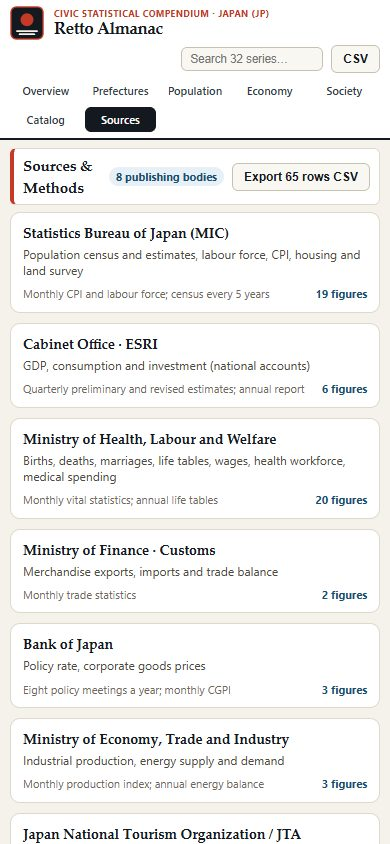
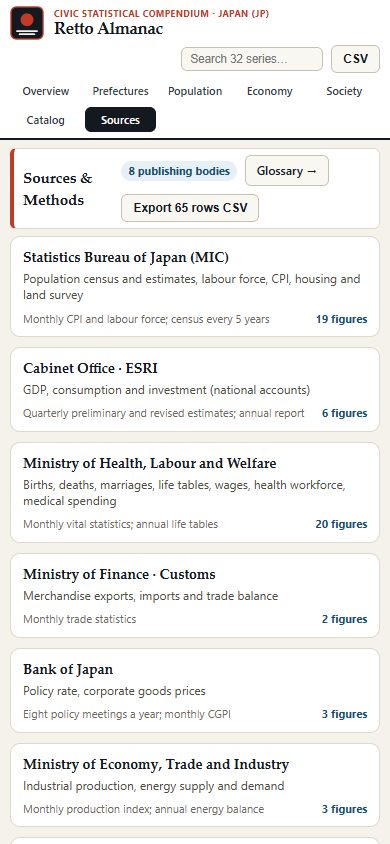
Glossary page, Japan at a glance strip, data audit tool, rewritten hand-in and README

diff --git a/app/glossary-view.js b/app/glossary-view.js
@@ -1,0 +1,83 @@
+// Glossary page (#/glossary): plain-language definitions of the terms the almanac uses, grouped
+// by topic, each pointing to the page where the term appears, with a search box and topic tabs.
+
+import { escapeHtml } from "./export-utils.js";
+
+/** Terms a reader meets on the site, with a definition written for non-specialists. */
+export const GLOSSARY_TERMS = [
+  { term: "Nominal GDP", topic: "Economy", page: "#/", definition: "The market value of everything produced in Japan in a year, at that year's prices. It rises with both more output and higher prices." },
+  { term: "Real GDP growth", topic: "Economy", page: "#/", definition: "GDP growth with price changes taken out (chain-linked to 2015 prices), so it shows whether the economy actually produced more." },
+  { term: "Calendar year (CY) vs fiscal year (FY)", topic: "Economy", page: "#/catalog", definition: "CY runs January to December. Japan's fiscal year runs April to March, so FY2024 ends on 31 March 2025." },
+  { term: "Trade balance", topic: "Economy", page: "#/economy", definition: "Merchandise exports minus imports on a customs basis. A negative figure (a deficit) means Japan bought more goods abroad than it sold." },
+  { term: "Current account", topic: "Economy", page: "#/catalog", definition: "The trade balance plus income from overseas investments and services. Japan runs a large surplus thanks to investment income." },
+  { term: "Policy rate", topic: "Economy", page: "#/", definition: "The short-term interest rate the Bank of Japan targets for overnight lending between banks; it ended negative rates in March 2024." },
+  { term: "CPI (2020 = 100)", topic: "Prices", page: "#/economy", definition: "The consumer price index: the cost of a fixed basket of goods and services, set to 100 in 2020. 108.5 means prices are 8.5% above 2020." },
+  { term: "Core CPI", topic: "Prices", page: "#/", definition: "CPI excluding fresh food, whose prices swing with the weather. It is Japan's standard measure of underlying inflation." },
+  { term: "Percentage points (pp)", topic: "Prices", page: "#/economy", definition: "The difference between two percentages. A rate moving from 2.5% to 2.6% has risen 0.1 pp, which is a 4% relative increase." },
+  { term: "Real wages", topic: "Prices", page: "#/economy", definition: "Wages adjusted for consumer prices. When prices rise faster than pay, real wages fall even if the yen amount grows." },
+  { term: "Total fertility rate (TFR)", topic: "Population", page: "#/demographics", definition: "The average number of children a woman would have over her life at this year's birth rates. About 2.07 keeps a population stable." },
+  { term: "Natural change", topic: "Population", page: "#/society", definition: "Births minus deaths in a year, before migration. Japan's has been negative every year since 2007." },
+  { term: "Population pyramid", topic: "Population", page: "#/demographics", definition: "Bars of men (left) and women (right) by five-year age group. A wide top and narrow base show an ageing, shrinking population." },
+  { term: "Old-age dependency ratio", topic: "Population", page: "#/demographics", definition: "People aged 65 and over per 100 people aged 15 to 64: a rough count of retirees per worker-age resident." },
+  { term: "Life expectancy at birth", topic: "Population", page: "#/society", definition: "How many years a baby born this year would live if today's death rates at each age stayed the same for its whole life." },
+  { term: "Census vs estimate", topic: "Population", page: "#/sources", definition: "The census counts every resident every five years; this almanac uses the 2020 census. Estimates update it monthly from births, deaths and migration." },
+  { term: "Unemployment rate", topic: "Labour", page: "#/", definition: "Jobless people actively looking for work as a share of the labour force, seasonally adjusted. People not seeking work are not counted." },
+  { term: "Job-openings-to-applicants ratio", topic: "Labour", page: "#/regions", definition: "Job openings at public employment offices per jobseeker. Above 1.0 means more vacancies than applicants." },
+  { term: "Prefecture and JIS code", topic: "Regions", page: "#/regions", definition: "Japan has 47 prefectures, numbered 01 (Hokkaido) to 47 (Okinawa) by the JIS X 0401 standard, roughly north to south." },
+  { term: "GDP per capita (prefectural)", topic: "Regions", page: "#/regions", definition: "A prefecture's output divided by its residents. Tokyo is high partly because commuters from nearby prefectures work there." },
+  { term: "Preliminary (prelim.) / provisional (Prov.)", topic: "Method", page: "#/sources", definition: "Early figures an agency publishes before its final count; they are usually revised slightly months later." },
+  { term: "Seasonally adjusted", topic: "Method", page: "#/catalog", definition: "Monthly figures with the usual calendar pattern (holidays, harvests, bonuses) removed, so one month can be compared with the next." },
+];
+
+const TOPICS = ["All", "Economy", "Prices", "Population", "Labour", "Regions", "Method"];
+
+const PAGE_NAMES = { "#/": "Overview", "#/regions": "Prefectures", "#/demographics": "Population", "#/economy": "Economy", "#/society": "Society", "#/catalog": "Catalog", "#/sources": "Sources" };
+
+/** Terms that match the topic tab and the search text. */
+function matchingTerms(topic, query) {
+  const needle = query.trim().toLowerCase();
+  return GLOSSARY_TERMS.filter((entry) => (topic === "All" || entry.topic === topic) && (!needle || `${entry.term} ${entry.definition}`.toLowerCase().includes(needle)));
+}
+
+/** Render the glossary page for the saved state. */
+export function renderGlossaryView(state) {
+  const topic = TOPICS.includes(state.glossaryTopic) ? state.glossaryTopic : "All";
+  const query = state.glossaryQuery || "";
+  const terms = matchingTerms(topic, query);
+  const tabs = TOPICS.map((t) => `<button type="button" class="seg-btn${t === topic ? " is-active" : ""}" data-glossary-topic="${t}">${t}</button>`).join("");
+  const cards = terms
+    .map(
+      (entry) => `
+      <article class="term-card">
+        <div class="term-head"><h3>${escapeHtml(entry.term)}</h3><span class="badge badge-neutral">${escapeHtml(entry.topic)}</span></div>
+        <p>${escapeHtml(entry.definition)}</p>
+        <a class="term-link" href="${entry.page}">Seen on ${escapeHtml(PAGE_NAMES[entry.page] || "Overview")} →</a>
+      </article>`,
+    )
+    .join("");
+  return `
+    <section class="context-banner">
+      <div class="context-headline">
+        <h1>How to read these statistics</h1>
+        <p class="context-sub">${GLOSSARY_TERMS.length} terms used across the almanac, explained in plain language, each linked to where it appears.</p>
+      </div>
+      <div class="context-meta"><a class="btn btn-subtle" href="#/sources">Where the numbers come from →</a></div>
+    </section>
+    <section class="toolbar-strip">
+      <div class="seg-group" role="tablist" aria-label="Glossary topics">${tabs}</div>
+      <div>
+        <label class="sr-only" for="glossary-query">Search terms</label>
+        <input id="glossary-query" class="field-input glossary-search" type="search" placeholder="Search a term, e.g. CPI" value="${escapeHtml(query)}" />
+      </div>
+    </section>
+    <section class="term-grid" aria-label="Glossary terms">${cards || `<p class="panel">No term matches “${escapeHtml(query)}”.</p>`}</section>`;
+}
+
+/** Wire the topic tabs and the search box. */
+export function bindGlossaryInteractions(root, state, persistState) {
+  root.querySelectorAll("[data-glossary-topic]").forEach((tab) => {
+    tab.addEventListener("click", () => persistState({ glossaryTopic: tab.getAttribute("data-glossary-topic") }));
+  });
+  const input = root.querySelector("#glossary-query");
+  input?.addEventListener("change", () => persistState({ glossaryQuery: input.value }));
+}

diff --git a/main.ts b/main.ts
@@ -1,57 +1,52 @@
-// Retto Almanac — Entrypoint for make.fun best-national-statistics-site-20261126-0539.
-// Stages static site assets (app/) and browser screenshots (screenshots/) into the grading output root,
-// then emits a deterministic dossier.json via the vendored make.fun frontend helper.
+// Retto Almanac hand-in program for make.fun's national statistics site bounty (Node 22, standard
+// library only). It copies the static site (app/) and its screenshots (screenshots/) into the
+// grader's output folder and writes dossier.json with the kit's unchanged frontend library.
+// Locally, MAKEFUN_OUTPUT_DIR stands in for /output:  MAKEFUN_OUTPUT_DIR=out node main.ts
 
-import { cpSync, existsSync, mkdirSync, readdirSync, statSync, writeFileSync } from "node:fs";
+import { copyFileSync, cpSync, existsSync, mkdirSync, readdirSync, statSync, writeFileSync } from "node:fs";
 import { dirname, join, resolve } from "node:path";
 import { fileURLToPath } from "node:url";
 import { buildDossier } from "./vendor/makefun-frontend.ts";
 
-const repoDir = dirname(fileURLToPath(import.meta.url));
-const targetOutputDir = resolve(process.env.MAKEFUN_OUTPUT_DIR ?? "/output");
-const DOSSIER_MAX_BYTES = 1572864;
+const REPOSITORY = dirname(fileURLToPath(import.meta.url));
+const OUTPUT = resolve(process.env.MAKEFUN_OUTPUT_DIR ?? "/output");
 
-const GATE_LIMITS = {
+/** The scorer's caps, so a bad hand-in fails here with a clear message instead of at the gate. */
+const CAPS = {
   text_max_bytes: 163840,
   screenshots: { max: 4, max_bytes: 262144 },
   app_max_files: 993,
   app_max_bytes: 16777216,
 } as const;
+const DOSSIER_CAP_BYTES = 1.5 * 1024 * 1024;
+const SCREENSHOT_NAME = /^[A-Za-z0-9][A-Za-z0-9._-]{0,127}$/;
 
-function stageNationalStatisticsSite(sourceRoot: string, destinationRoot: string): void {
-  const sourceApp = join(sourceRoot, "app");
-  const sourceShots = join(sourceRoot, "screenshots");
-
-  if (!existsSync(join(sourceApp, "index.html"))) {
-    throw new Error("Retto Almanac staging failed: app/index.html is missing.");
-  }
-
-  mkdirSync(destinationRoot, { recursive: true });
-  cpSync(sourceApp, join(destinationRoot, "app"), { recursive: true });
-
-  const destinationShots = join(destinationRoot, "screenshots");
-  mkdirSync(destinationShots, { recursive: true });
-  if (existsSync(sourceShots)) {
-    const entries = readdirSync(sourceShots)
-      .filter((name) => !name.startsWith("."))
-      .sort();
-    if (entries.length < 3 || entries.length > GATE_LIMITS.screenshots.max) {
-      throw new Error(`Expected 3 to 4 screenshots, found ${entries.length}.`);
-    }
-    for (const file of entries) {
-      const srcFile = join(sourceShots, file);
-      const size = statSync(srcFile).size;
-      if (size <= 0 || size > GATE_LIMITS.screenshots.max_bytes) {
-        throw new Error(`Screenshot ${file} (${size} bytes) is outside the 256 KiB gate limit.`);
-      }
-      cpSync(srcFile, join(destinationShots, file));
-    }
-  }
+/** Copy app/ whole; the site must have its index page. */
+function copySite(): void {
+  const site = join(REPOSITORY, "app");
+  if (!existsSync(join(site, "index.html"))) throw new Error("app/index.html is missing: nothing to hand in.");
+  cpSync(site, join(OUTPUT, "app"), { recursive: true });
 }
 
-stageNationalStatisticsSite(repoDir, targetOutputDir);
-const dossierBytes = buildDossier(targetOutputDir, GATE_LIMITS);
-if (dossierBytes.byteLength > DOSSIER_MAX_BYTES) {
-  throw new Error(`Dossier (${dossierBytes.byteLength} bytes) exceeds 1.5 MiB limit.`);
+/** Copy 3 or 4 screenshots in name order (the first is the cover), checking name and size. */
+function copyScreenshots(): string[] {
+  const folder = join(REPOSITORY, "screenshots");
+  const names = existsSync(folder) ? readdirSync(folder).filter((name) => !name.startsWith(".")).sort() : [];
+  if (names.length < 3 || names.length > CAPS.screenshots.max) throw new Error(`screenshots/ holds ${names.length} images; the gate wants 3 or 4.`);
+  const target = join(OUTPUT, "screenshots");
+  mkdirSync(target, { recursive: true });
+  for (const name of names) {
+    const bytes = statSync(join(folder, name)).size;
+    if (!SCREENSHOT_NAME.test(name)) throw new Error(`Screenshot name ${name} has characters the gate refuses.`);
+    if (bytes === 0 || bytes > CAPS.screenshots.max_bytes) throw new Error(`Screenshot ${name} is ${bytes} bytes; the cap is 256 KiB.`);
+    copyFileSync(join(folder, name), join(target, name));
+  }
+  return names;
 }
-writeFileSync(join(targetOutputDir, "dossier.json"), dossierBytes);
+
+mkdirSync(OUTPUT, { recursive: true });
+copySite();
+copyScreenshots();
+const dossier = buildDossier(OUTPUT, CAPS);
+if (dossier.byteLength > DOSSIER_CAP_BYTES) throw new Error(`dossier.json is ${dossier.byteLength} bytes; the cap is 1.5 MiB.`);
+writeFileSync(join(OUTPUT, "dossier.json"), dossier);

diff --git a/app/sections.css b/app/sections.css
@@ -47,12 +47,45 @@
 .finder-tools .field-input { min-width: 240px; }
 .finder-source { font-size: 12px; color: #4f4a42; }
 
+.glance-strip { display: flex; align-items: stretch; gap: 10px; margin: 0 0 11px; padding: 7px 10px; background: #141920; border-radius: var(--radius-md); color: #f6f3ec; }
+.glance-title { margin: 0; flex: 0 0 76px; align-self: center; font: 700 11px/1.3 var(--font-sans); letter-spacing: 0.1em; text-transform: uppercase; color: #e9a395; }
+.glance-row { flex: 1; display: grid; grid-template-columns: repeat(6, minmax(0, 1fr)); gap: 8px; }
+.glance-tile { display: flex; flex-direction: column; gap: 1px; text-decoration: none; color: inherit; padding: 2px 6px; border-left: 1px solid rgba(255, 255, 255, 0.14); }
+.glance-tile:hover { background: rgba(255, 255, 255, 0.07); }
+.glance-icon { display: none; }
+.glance-value { font: 700 19px/1.1 var(--font-serif); color: #ffffff; }
+.glance-label { font-size: 11.5px; line-height: 1.25; color: #d9d4c8; }
+.glance-period { font-size: 10px; color: #a7a195; }
+
+.term-grid { display: grid; grid-template-columns: repeat(3, minmax(0, 1fr)); gap: 10px; }
+.term-card { background: var(--bg-card); border: 1px solid var(--line-soft); border-radius: var(--radius-md); padding: 10px 12px; display: flex; flex-direction: column; gap: 6px; }
+.term-head { display: flex; justify-content: space-between; align-items: baseline; gap: 8px; }
+.term-head h3 { margin: 0; font: 700 15px var(--font-serif); color: #141920; }
+.term-card p { margin: 0; font-size: 12.8px; line-height: 1.45; color: #3b3832; flex: 1; }
+.term-link { font-size: 11.5px; font-weight: 600; color: var(--indigo); text-decoration: none; }
+.term-link:hover { text-decoration: underline; }
+.glossary-search { width: 230px; }
+
+@media (max-width: 1080px) {
+  .glance-row { grid-template-columns: repeat(3, minmax(0, 1fr)); }
+  .term-grid { grid-template-columns: repeat(2, minmax(0, 1fr)); }
+}
+
+@media (max-width: 640px) {
+  .glance-strip { flex-direction: column; }
+  .glance-title { flex-basis: auto; align-self: flex-start; }
+  .glance-row { grid-template-columns: repeat(2, minmax(0, 1fr)); }
+  .term-grid { grid-template-columns: 1fr; }
+  .glossary-search { width: 100%; }
+}
+
 @media (max-width: 1080px) {
   .fact-grid, .agency-grid { grid-template-columns: repeat(2, minmax(0, 1fr)); }
   .society-deck { grid-template-columns: 1fr; }
 }
 
 @media (max-width: 640px) {
+  .context-banner .context-meta { flex-wrap: wrap; flex-shrink: 1; }
   .fact-grid, .agency-grid { grid-template-columns: 1fr; }
   .fact-value { font-size: 22px; }
   .finder-tools { flex-wrap: wrap; width: 100%; }

diff --git a/app/glance-strip.js b/app/glance-strip.js
@@ -1,0 +1,26 @@
+// "Japan at a glance" strip for the Overview: six everyday figures about how people in Japan
+// live, drawn from the Society & Living data, each linking to its page with its year.
+
+/** The glance figures, in display order. Values repeat the sourced figures of society-data.js. */
+export const GLANCE_ITEMS = [
+  { icon: "♥", value: "87.1 / 81.1", label: "Life expectancy, women / men", period: "2023", href: "#/society" },
+  { icon: "◔", value: "29.3%", label: "Residents aged 65 and over", period: "Sep 2024", href: "#/society" },
+  { icon: "⌂", value: "38%", label: "Households of one person", period: "2020 Census", href: "#/society" },
+  { icon: "▣", value: "13.8%", label: "Homes standing vacant", period: "2023", href: "#/society" },
+  { icon: "✚", value: "−919k", label: "Natural decrease (births − deaths)", period: "2024 prelim.", href: "#/society" },
+  { icon: "✈", value: "36.9M", label: "Visitors to Japan", period: "2024", href: "#/catalog" },
+];
+
+/** Render the strip as a row of linked tiles. */
+export function renderGlanceStrip() {
+  const tiles = GLANCE_ITEMS.map(
+    (item) => `
+      <a class="glance-tile" href="${item.href}">
+        <span class="glance-icon" aria-hidden="true">${item.icon}</span>
+        <span class="glance-value num">${item.value}</span>
+        <span class="glance-label">${item.label}</span>
+        <span class="glance-period">${item.period}</span>
+      </a>`,
+  ).join("");
+  return `<section class="glance-strip" aria-label="Japan at a glance"><h2 class="glance-title">Japan at a glance</h2><div class="glance-row">${tiles}</div></section>`;
+}

diff --git a/app/main.js b/app/main.js
@@ -31,6 +31,8 @@ const DEFAULT_STATE = {
   societyTheme: "All",
   sourcesQuery: "",
   sourcesAgency: "All",
+  glossaryTopic: "All",
+  glossaryQuery: "",
 };
 
 function loadState() {
@@ -63,6 +65,7 @@ function parseHashRoute() {
   if (pathPart.startsWith("/catalog")) return "catalog";
   if (pathPart.startsWith("/society")) return "society";
   if (pathPart.startsWith("/sources")) return "sources";
+  if (pathPart.startsWith("/glossary")) return "glossary";
   return "overview";
 }
 
@@ -110,6 +113,11 @@ async function renderActiveRoute() {
     if (token !== renderToken) return;
     root.innerHTML = mod.renderSourcesView(appState);
     mod.bindSourcesInteractions(root, appState, persistState);
+  } else if (route === "glossary") {
+    const mod = await import("./glossary-view.js");
+    if (token !== renderToken) return;
+    root.innerHTML = mod.renderGlossaryView(appState);
+    mod.bindGlossaryInteractions(root, appState, persistState);
   } else {
     root.innerHTML = renderOverviewView(appState);
     bindOverviewInteractions(root, appState, persistState);

diff --git a/app/index.html b/app/index.html
@@ -56,6 +56,8 @@
         <strong>Retto Almanac (2024–2025 Benchmark Edition)</strong> — Independent civic presentation compiled from official public releases of the Statistics Bureau of Japan (MIC), Economic and Social Research Institute (Cabinet Office ESRI), Ministry of Finance (MOF), Ministry of Health, Labour and Welfare (MHLW), Bank of Japan (BOJ), METI ANRE, and IPSS.
       </div>
       <div class="footer-actions">
+        <a class="link-btn" href="#/glossary">Glossary: how to read these statistics</a>
+        <a class="link-btn" href="#/sources">Sources &amp; methods</a>
         <span class="status-pill">100% Offline Static Archive</span>
         <button id="reset-state-btn" class="link-btn" type="button">Reset interactive filters</button>
       </div>

diff --git a/app/overview-view.js b/app/overview-view.js
@@ -3,6 +3,7 @@
 import { HEADLINE_KPIS, MACRO_DECADE, RELEASE_CALENDAR } from "./national-summary-data.js";
 import { renderMacroComboSvg, renderSparklineSvg } from "./svg-charts.js";
 import { downloadCsvFile, escapeHtml, formatSigned, formatYen } from "./export-utils.js";
+import { renderGlanceStrip } from "./glance-strip.js";
 
 export function renderOverviewView(state) {
   const mode = state.overviewMode || "gdp";
@@ -54,6 +55,7 @@ export function renderOverviewView(state) {
     </section>
 
     <section class="kpi-grid" aria-label="Headline national indicators">${kpiCards}</section>
+    ${renderGlanceStrip()}
 
     <section class="split-deck">
       <article class="panel">

diff --git a/app/sources-view.js b/app/sources-view.js
@@ -80,6 +80,7 @@ export function renderSourcesView(state) {
       </div>
       <div class="context-meta">
         <span class="badge badge-neutral">${AGENCY_DIRECTORY.length} publishing bodies</span>
+        <a class="btn btn-subtle" href="#/glossary">Glossary →</a>
         <button type="button" class="btn btn-subtle" id="sources-csv-btn">Export ${shown.length} rows CSV</button>
       </div>
     </section>

diff --git a/README.md b/README.md
@@ -4,24 +4,47 @@
 [![rank](https://make.fun/badge/best-national-statistics-site-20261126-0539/SimplyMar/best-national-statistics-site-20261126-0539/rank.svg)](https://make.fun/bounty/best-national-statistics-site-20261126-0539/leaderboard?utm_source=github&utm_medium=readme&utm_campaign=best-national-statistics-site-20261126-0539)
 [![reward](https://make.fun/badge/best-national-statistics-site-20261126-0539/SimplyMar/best-national-statistics-site-20261126-0539/reward.svg)](https://make.fun/bounty/best-national-statistics-site-20261126-0539?utm_source=github&utm_medium=readme&utm_campaign=best-national-statistics-site-20261126-0539)
 
-An offline, zero-dependency national statistics compendium for Japan built for [make.fun's "Make the best national statistics site" bounty](https://make.fun/bounty/best-national-statistics-site-20261126-0539).
+Retto Almanac is a national statistics site for Japan. It works offline and has no dependencies:
+plain static files, no framework, no build step and no network requests. Every figure shows its
+publishing agency and reference period. It was built for make.fun's
+["Make the best national statistics site"](https://make.fun/bounty/best-national-statistics-site-20261126-0539)
+bounty.
 
-## Highlights
+![Overview](screenshots/1-national-overview.jpg)
 
-- **National Pulse (`#/`)**: Headline macroeconomic, demographic, labor, and trade indicators with 10-year series, survey provenance, release calendar, and quick CPI purchasing-power converter.
-- **47-Prefecture Atlas (`#/regions`)**: Interactive SVG choropleth map of all 47 prefectures with metric switcher, head-to-head prefecture comparison matrix, and full sortable directory.
-- **Population & Labor (`#/demographics`)**: Bilateral age-sex population pyramid (`2000`, `2015`, `2024`, `2040` IPSS projection), vital statistics (births, deaths, TFR), and employment by industry.
-- **Economy, Prices & Trade (`#/economy`)**: National accounts, CPI basket contributions (`2020=100`), real vs. nominal wage calculator, electricity mix, and merchandise trade by partner and commodity.
-- **Data Catalog & Methodology (`#/catalog`)**: Searchable 32-series statistical catalog, CSV/JSON series export, citation builder, and survey methodology documentation.
+## Pages
 
-## Run Locally
+| Page | Route | What a visitor gets |
+| --- | --- | --- |
+| Overview | `#/` | Eight headline indicators with 10-year sparklines, "Japan at a glance", the 2015–2024 GDP / CPI / trade chart with a year scrubber, a CPI purchasing-power converter and the release calendar |
+| Prefectures | `#/regions` | A tile map of all 47 prefectures with five metrics, a selected-prefecture card, a three-way comparison and a sortable directory |
+| Population | `#/demographics` | Age–sex pyramids (2000, 2015, 2024, 2040 projection), births vs deaths since 1990, employment and pay by industry |
+| Economy | `#/economy` | CPI contributions, a household-income buying-power lab, the electricity mix and trade by partner |
+| Society & Living | `#/society` | 25 figures on health, ageing, births and deaths, households, housing, safety, land and climate, filterable by theme, with a life-expectancy chart and the household mix |
+| Catalog | `#/catalog` | 32 official series with search, CSV/JSON export, a citation builder and survey methods |
+| Sources & Methods | `#/sources` | The publishing agencies with their release cadence, and a figure finder that traces every number on the site to its source |
+| Glossary | `#/glossary` | 22 terms (core CPI, TFR, real wages, FY vs CY …) in plain language, each linked to the page that uses it |
 
-```bash
-node serve.ts --port 8080
+Pages other than the Overview load on demand with `import()`, so the first load stays small.
+Every page works at phone width.
+
+## Run it
+
+```sh
+node serve.ts --port 8080        # then open http://localhost:8080
 ```
 
-## Build Dossier
+## Check and hand in
 
-```bash
+```sh
+node tools/check-data.mjs        # every figure has a value, a period and a source
+node tools/verify-site.mjs       # all 8 routes on desktop and phone, filters, no network, screenshots
 MAKEFUN_OUTPUT_DIR=out node main.ts
 ```
+
+## Sources
+
+Statistics Bureau of Japan (MIC), Cabinet Office ESRI, Ministry of Health, Labour and Welfare,
+Ministry of Finance, Bank of Japan, METI / ANRE, JNTO, National Police Agency, Geospatial
+Information Authority, Forestry Agency, Ministry of the Environment, Immigration Services Agency
+and IPSS. Figures are the latest final or preliminary editions; preliminary figures are labelled.
